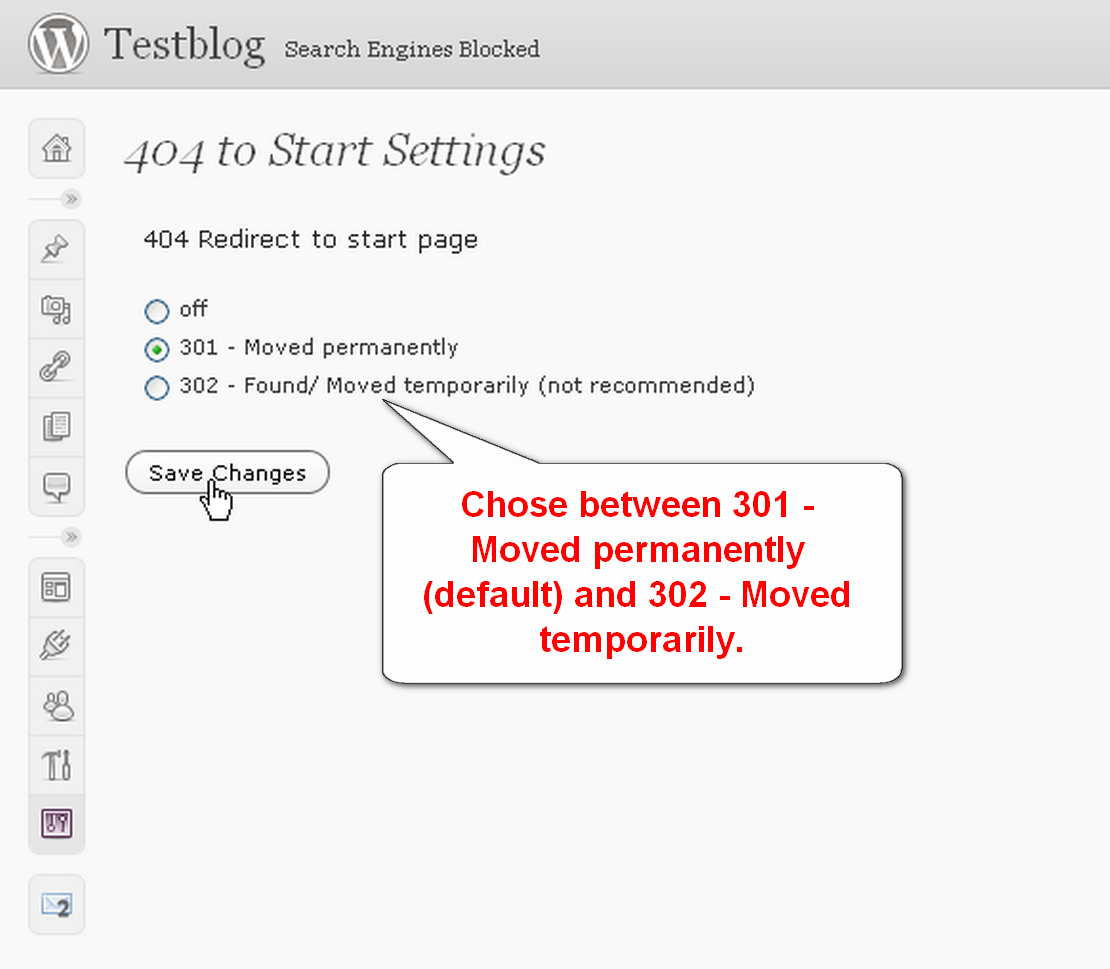
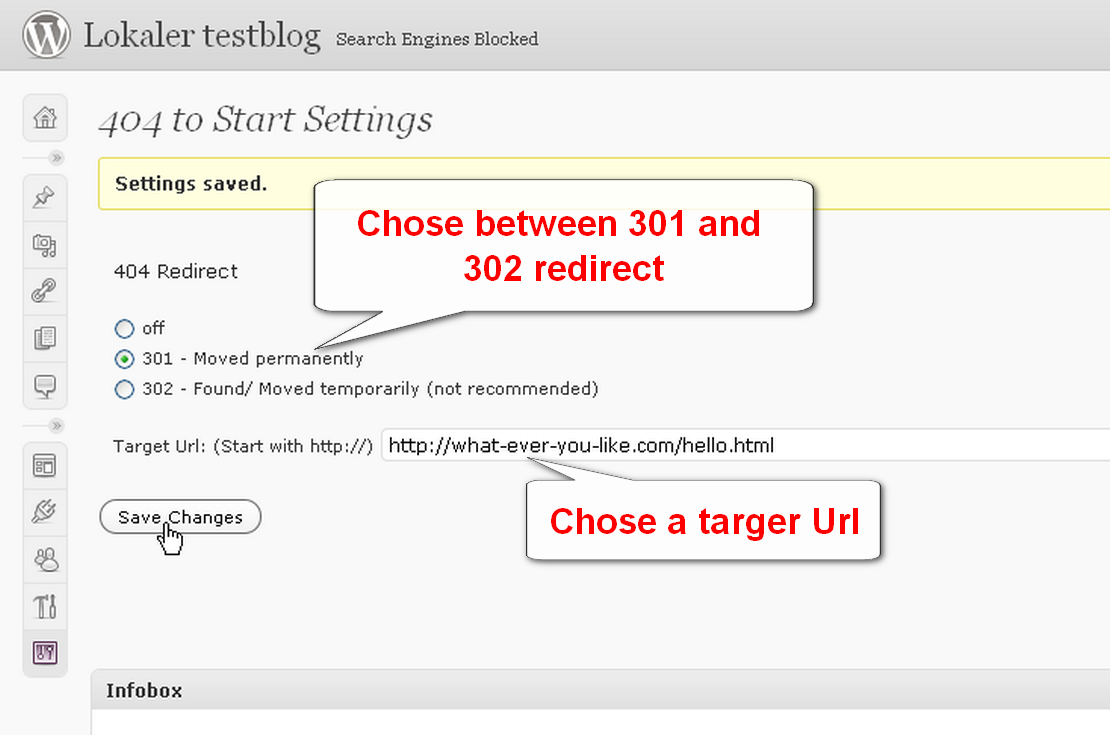
= 1.3 (03.03.2011) = * Set custom target Url (any page or site you like)
git-svn-id: https://plugins.svn.wordpress.org/404-to-start/trunk@354584 b8457f37-d9ea-0310-8a92-e5e31aec5664

diff --git a/404-to-start.php b/404-to-start.php
@@ -36,7 +36,12 @@ register_deactivation_hook(__FILE__, 'f042start_deactivate');
 register_uninstall_hook(__FILE__, 'f042start_uninstall');
 
 function f042start_register_settings() { // whitelist options
-  register_setting( 'f042start_option-group', 'f042start_type' );
+	register_setting( 'f042start_option-group', 'f042start_type' );
+	register_setting( 'f042start_option-group', 'f042start_target', 'f042start_check_values');
+	
+}
+
+function keine_ahnung() {
 }
 
 function f042start_set_lang_file() {
@@ -51,17 +56,20 @@ function f042start_set_lang_file() {
 function f042start_deactivate() {
 	// needed
 	delete_option('f042start_type');
+	delete_option('f042start_target');
 }
 
 function f042start_activate() {
 	# setting default values
 	add_option('f042start_type', '301');
+	add_option('f042start_target', home_url());
 }
 
 
 function f042start_uninstall() {
 	# delete all data stored
 	delete_option('f042start_type');
+	delete_option('f042start_target');
 }
 
 function f042start_plugin_admin_menu() {
@@ -74,28 +82,36 @@ function f042start_plugin_options(){
 	if (!current_user_can('manage_options'))  {
 		wp_die( __('You do not have sufficient permissions to access this page.') );
 	}
-	echo '<div class="wrap">';
-
-
+	
+	if (get_option("f042start_target")=="") {
+		// setting target value to home url if empty (maybe because of plugin update)
+		add_option('f042start_target', home_url());
+	}
+	
+	print '<div class="wrap">';
+	
 	print '<h2>'.__('404 to Start Settings', 'f042start').'</h2>';
 
 	print '<form method="post" action="options.php" id="f042start_form">';
 	wp_nonce_field('update-options', '_wpnonce');
-	settings_fields( 'f042start_option-group' );
+	settings_fields( 'f042start_option-group');
 
 	print'
-		<input type="hidden" name="page_options" value="f042start_type" />
+		<input type="hidden" name="page_options" value="f042start_type, f042start_target" />
 		<table class="form-table">
 		<tr valign="top">
-		<th scope="row">'.__('404 Redirect to start page', 'f042start').'</th>
+		<th scope="row">'.__('404 Redirect', 'f042start').'</th>
 		</tr>
 		<tr>
 		<td>
-		
 		<input type="radio" name="f042start_type" value="off" '.f042start_checked("f042start_type", "off").'/> '.__('off', 'f042start').' <br />
 		<input type="radio" name="f042start_type" value="301" '.f042start_checked("f042start_type", "301").'/> '.__('301 - Moved permanently', 'f042start').'<br />
 		<input type="radio" name="f042start_type" value="302" '.f042start_checked("f042start_type", "302").'/> '.__('302 - Found/ Moved temporarily (not recommended)', 'f042start').'<br />
-		
+		</td>
+		</tr>
+		<tr>
+		<td>
+		'.__('Target Url: (Start with http://)', 'f042start').' <input type="text" name="f042start_target" value="'.get_option("f042start_target").'" size="100">
 		</td>
 		</tr>
 		</table>
@@ -114,6 +130,15 @@ function f042start_plugin_options(){
 	
 }
 
+// sanitize function
+function f042start_check_values($input) {
+	# check target url
+	if (!f042start_is_valid_url($input)) {
+		add_settings_error('f042start_option-group', 'settings_updated', __('This is not a valid Url', 'f042start'), $type = 'error');
+	}
+	return $input;
+}
+
 
 function f042start_checked($checkOption, $checkValue) {
 	return get_option($checkOption)==$checkValue ? " checked" : "";
@@ -124,9 +149,62 @@ function f042start_checked($checkOption, $checkValue) {
 // 301=permanently moved
 // 302=temporary
 function f042start_output_header() {
+	
 	if ( !is_404() || get_option("f042start_type")=="off" ) return;
 	
-	#die (get_option("f042start_type"));
-	wp_redirect( home_url(), get_option("f042start_type") );
+	# setting default target to prevent errors
+	if (get_option('f042start_target')=="") {
+		$target=home_url();
+	} else {
+		$target=get_option("f042start_target");
+	}
+	
+	wp_redirect( $target, get_option("f042start_type") );
 }
+
+
+# http://www.roscripts.com/snippets/show/156
+function f042start_is_valid_url ( $url )
+{
+		$url = @parse_url($url);
+
+		if ( ! $url) {
+			return false;
+		}
+
+		$url = array_map('trim', $url);
+		$url['port'] = (!isset($url['port'])) ? 80 : (int)$url['port'];
+		$path = (isset($url['path'])) ? $url['path'] : '';
+
+		if ($path == '')
+		{
+			$path = '/';
+		}
+
+		$path .= ( isset ( $url['query'] ) ) ? "?$url[query]" : '';
+
+		if ( isset ( $url['host'] ) AND $url['host'] != gethostbyname ( $url['host'] ) )
+		{
+			if ( PHP_VERSION >= 5 )
+			{
+				$headers = get_headers("$url[scheme]://$url[host]:$url[port]$path");
+			}
+			else
+			{
+				$fp = fsockopen($url['host'], $url['port'], $errno, $errstr, 30);
+
+				if ( ! $fp )
+				{
+					return false;
+				}
+				fputs($fp, "HEAD $path HTTP/1.1\r\nHost: $url[host]\r\n\r\n");
+				$headers = fread ( $fp, 128 );
+				fclose ( $fp );
+			}
+			$headers = ( is_array ( $headers ) ) ? implode ( "\n", $headers ) : $headers;
+			return ( bool ) preg_match ( '#^HTTP/.*\s+[(200|301|302)]+\s#i', $headers );
+		}
+		return false;
+}
+
 ?>
